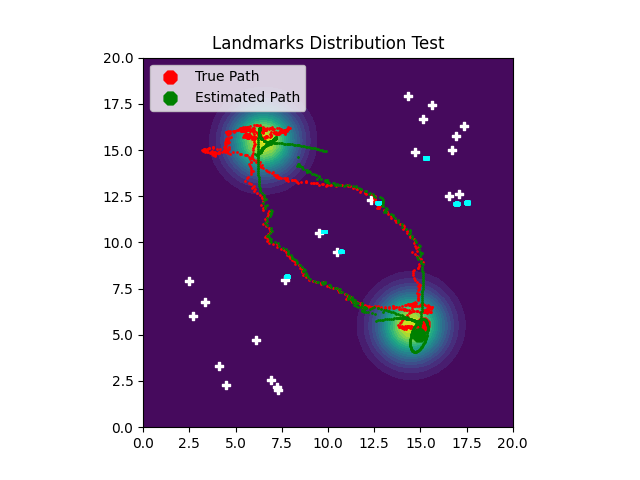
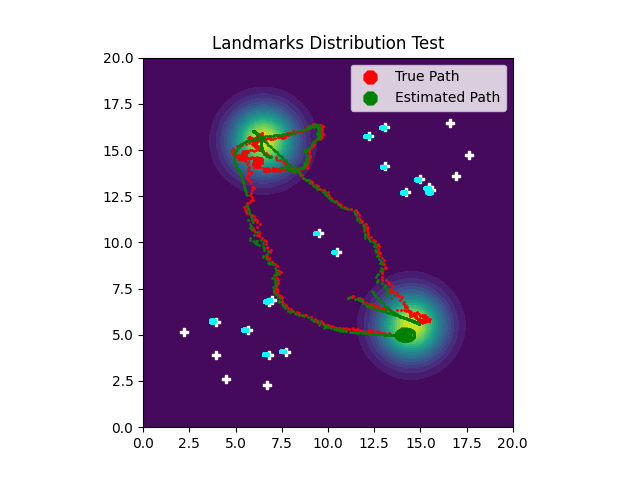
update

diff --git a/dynamic_target_demo/comparison.py b/dynamic_target_demo/comparison.py
@@ -39,8 +39,8 @@ ergCtrlDR.phik = convert_phi2phik(ergCtrlDR.basis, t_dist.grid_vals, t_dist.grid
 # initialize user-defined landmarks
 # landmarks = np.array([[14.3, 5.5],
 #                       [13.9, 5.9]])
-landmarks = np.array([[9.5, 10.5],
-                      [10.5, 9.5]])
+# landmarks = np.array([[9.5, 10.5],
+#                       [10.5, 9.5]])
 
 # lanmark distribution 1: uniform
 # landmarks1 = np.random.uniform(0.5, 19.5, size=(15, 2))
@@ -48,17 +48,21 @@ landmarks = np.array([[9.5, 10.5],
 # landmarks = np.concatenate((landmarks1, landmarks2))
 
 # lanmark distribution 2: gathered at two corners
-landmarks1 = np.random.uniform(12.0, 18.0, size=(10, 2))
-landmarks2 = np.random.uniform(2.0, 8.0, size=(10, 2))
-landmarks = np.concatenate((np.concatenate((landmarks1, landmarks2)), landmarks))
+# landmarks1 = np.random.uniform(12.0, 18.0, size=(10, 2))
+# landmarks2 = np.random.uniform(2.0, 8.0, size=(10, 2))
+# landmarks = np.concatenate((np.concatenate((landmarks1, landmarks2)), landmarks))
 
 # lanmark distribution 3: mixed distribution
 # landmarks1 = np.random.uniform(12.0, 18.0, size=(10, 2))
 # landmarks2 = np.random.uniform(0.5, 19.5, size=(10, 2))
 # landmarks = np.concatenate((landmarks1, landmarks2))
 
+# read landmarks from file
+landmarks = np.load('/home/msun/Code/ErgodicBSP/dynamic_target_demo/landmarks.npy')
+
 sensor_range = 4
 motion_noise = np.array([0.3, 0.2, 0.1]) ** 2
+# motion_noise = np.array([0.35, 0.25, 0.15]) ** 2
 # motion_noise = np.zeros(3)
 measure_noise = np.array([0.15, 0.15]) ** 2
 # measure_noise = np.array([1e-03, 1e-03]) ** 2

diff --git a/dynamic_target_demo/dynamic_target_dist.py b/dynamic_target_demo/dynamic_target_dist.py
@@ -39,8 +39,8 @@ ergCtrlDR.phik = convert_phi2phik(ergCtrlDR.basis, t_dist.grid_vals, t_dist.grid
 # initialize user-defined landmarks
 # landmarks = np.array([[14.3, 5.5],
 #                       [13.9, 5.9]])
-landmarks = np.array([[9.5, 10.5],
-                      [10.5, 9.5]])
+# landmarks = np.array([[9.5, 10.5],
+#                       [10.5, 9.5]])
 
 # lanmark distribution 1: uniform
 # landmarks1 = np.random.uniform(0.5, 19.5, size=(15, 2))
@@ -48,17 +48,21 @@ landmarks = np.array([[9.5, 10.5],
 # landmarks = np.concatenate((landmarks1, landmarks2))
 
 # lanmark distribution 2: gathered at two corners
-landmarks1 = np.random.uniform(12.0, 18.0, size=(10, 2))
-landmarks2 = np.random.uniform(2.0, 8.0, size=(10, 2))
-landmarks = np.concatenate((np.concatenate((landmarks1, landmarks2)), landmarks))
+# landmarks1 = np.random.uniform(12.0, 18.0, size=(10, 2))
+# landmarks2 = np.random.uniform(2.0, 8.0, size=(10, 2))
+# landmarks = np.concatenate((np.concatenate((landmarks1, landmarks2)), landmarks))
 
 # lanmark distribution 3: mixed distribution
 # landmarks1 = np.random.uniform(12.0, 18.0, size=(10, 2))
 # landmarks2 = np.random.uniform(0.5, 19.5, size=(10, 2))
 # landmarks = np.concatenate((landmarks1, landmarks2))
 
+# read landmarks from file
+landmarks = np.load('/home/msun/Code/ErgodicBSP/dynamic_target_demo/landmarks.npy')
+
 sensor_range = 4
 motion_noise = np.array([0.3, 0.2, 0.1]) ** 2
+# motion_noise = np.array([0.35, 0.25, 0.15]) ** 2
 # motion_noise = np.zeros(3)
 measure_noise = np.array([0.15, 0.15]) ** 2
 # measure_noise = np.array([1e-03, 1e-03]) ** 2

diff --git a/rt_erg_lib/ekf_simulation.py b/rt_erg_lib/ekf_simulation.py
@@ -115,10 +115,10 @@ class simulation_slam():
             # Information for debug
             #########################
             # print("robot uncertainty: ", np.linalg.det(cov[0: self.nStates, 0: self.nStates]))
-            if t == 800:
-                np.save("/home/msun/Code/ErgodicBSP/test/mean_mat", mean)
-                np.save("/home/msun/Code/ErgodicBSP/test/cov_mat", cov)
-                print("data written success !")
+            # if t == 800:
+            #     np.save("/home/msun/Code/ErgodicBSP/test/mean_mat", mean)
+            #     np.save("/home/msun/Code/ErgodicBSP/test/cov_mat", cov)
+            #     print("data written success !")
 
         print("simulation finished.")
 
@@ -361,8 +361,8 @@ class simulation_slam():
 
         def sub_animate(i):
             # for debug: save frame
-            if i == 800:
-                plt.savefig('frame-1200.png')
+            # if i == 800:
+            #     plt.savefig('frame-1200.png')
 
             # visualize agent location / trajectory
             if (show_traj):

diff --git a/rt_erg_lib/dynamic_target_dist.py b/rt_erg_lib/dynamic_target_dist.py
@@ -114,7 +114,8 @@ class TargetDist(object):
         if np.sum(vals) != 0:
             vals /= np.sum(vals)
 
-        threshold = 1e-03
+        # threshold = 1e-03
+        threshold = 4e-04
         alpha = (p / (p + threshold)) ** 2
         print("alpha: ", alpha)
         self.grid_vals = (1 - alpha) * self.target_grid_vals + alpha * vals
